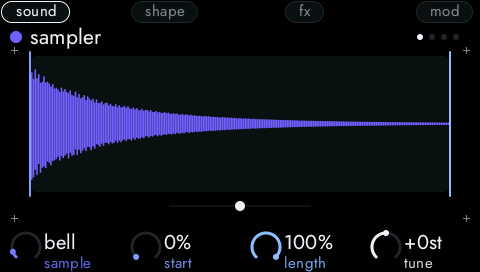
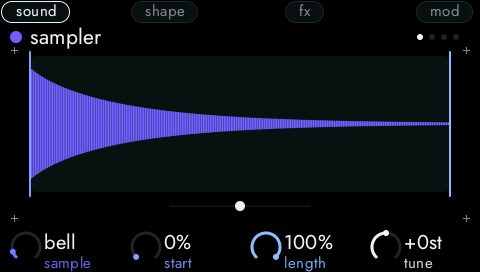
The sampler's sounds play the note they are given: made on a C (the bell tuned to play chords, the voice's vibrato steady), the granular follows; house's cloud an octave down; the twin too

diff --git a/twin/op8-twin.html b/twin/op8-twin.html
@@ -746,15 +746,16 @@ let sampleBank = null;
 function makeBank() {
   const SR = 48000, TAU = Math.PI * 2, mk = (sec, f) => { const n = Math.floor(sec * SR), a = new Float32Array(n); for (let i = 0; i < n; i++) a[i] = f(i, i / SR, n); return a; };
   let seed = 0x12345678; const rnd = () => { seed ^= seed << 13; seed ^= seed >>> 17; seed ^= seed << 5; return (seed >>> 0) / 4294967295 * 2 - 1; };
-  const pluck = (() => { const P = Math.floor(SR / 220), line = Float32Array.from({ length: P }, rnd); return mk(1.4, i => { const j = i % P, o = line[j]; line[j] = (line[j] + line[(j + 1) % P]) * 0.499; return o; }); })();
-  const bell = mk(2, (i, t) => [[1, 1, 1.6], [2.76, .6, 1.1], [5.4, .4, .7], [8.93, .25, .45], [11.34, .15, .3]].reduce((a, [r, g, d]) => a + Math.sin(TAU * 392 * r * t) * g * Math.exp(-t / d * 3), 0));
-  const pad = mk(2.4, (i, t, n) => { const env = Math.min(1, t / .6) * Math.min(1, (n - i) / SR / .8); return [-.07, 0, .06, .13].reduce((a, d) => { const f = 196 * (1 + d * .1), ph = (f * t) % 1; return a + (2 * ph - 1) * .5 + Math.sin(TAU * f * 2 * t) * .3; }, 0) * env; });
-  const st = [[0, 0], [0, 0], [0, 0]]; const voice = mk(1.2, (i, t, n) => { const vib = 1 + .012 * Math.sin(TAU * 5 * t), pulse = (130 * vib * t) % 1 < .05 ? 1 : 0; let out = 0;
+  const C4 = 261.62557; // the pitched sounds are on a C (sampler.rs): a note plays that note
+  const pluck = (() => { const P = Math.round(SR / C4), line = Float32Array.from({ length: P }, rnd); return mk(1.4, i => { const j = i % P, o = line[j]; line[j] = (line[j] + line[(j + 1) % P]) * 0.499; return o; }); })();
+  const bell = mk(2, (i, t) => [[1, 1, 1.6], [2, .5, 1], [3, .3, .6], [4, .2, .4], [6, .12, .25]].reduce((a, [r, g, d]) => a + Math.sin(TAU * 2 * C4 * r * t) * g * Math.exp(-t / d * 3), 0));
+  const pad = mk(2.4, (i, t, n) => { const env = Math.min(1, t / .6) * Math.min(1, (n - i) / SR / .8); return [-.07, 0, .06, .13].reduce((a, d) => { const f = C4 * (1 + d * .1), ph = (f * t) % 1; return a + (2 * ph - 1) * .5 + Math.sin(TAU * f * 2 * t) * .3; }, 0) * env; });
+  const st = [[0, 0], [0, 0], [0, 0]]; let vph = 0; const voice = mk(1.2, (i, t, n) => { const vib = 1 + .012 * Math.sin(TAU * 5 * t); vph = (vph + C4 / 2 * vib / SR) % 1; const pulse = vph < .05 ? 1 : 0; let out = 0;
     [[800, 1], [1150, .5], [2900, .25]].forEach(([f, g], k) => { const r = .985, y = pulse + 2 * r * Math.cos(TAU * f / SR) * st[k][0] - r * r * st[k][1]; st[k][1] = st[k][0]; st[k][0] = y; out += y * g * .05; });
     return out * Math.min(1, t / .08) * Math.min(1, (n - i) / SR / .3); });
   let ph = 0; const thump = mk(.7, (i, t) => { ph = (ph + (42 + 110 * Math.exp(-t * 22)) / SR) % 1; return Math.sin(TAU * ph) * Math.exp(-t * 5) + rnd() * .3 * Math.exp(-t * 90); });
   let lp = 0; const sweep = mk(1.6, (i, t, n) => { const u = i / n; lp += (rnd() - lp) * (.02 + .9 * u * u); return lp * (.1 + .9 * u) * Math.min(1, (n - i) / 400); });
-  const glass = mk(1.3, (i, t) => Math.sin(TAU * 660 * t + Math.sin(TAU * 1320 * t) * 2.2 * Math.exp(-t * 3)) * Math.exp(-t * 2.2));
+  const glass = mk(1.3, (i, t) => Math.sin(TAU * 2 * C4 * t + Math.sin(TAU * 4 * C4 * t) * 2.2 * Math.exp(-t * 3)) * Math.exp(-t * 2.2));
   const glitch = mk(.6, (i, t) => { const hit = Math.floor(t / .15), loc = t - hit * .15; return (rnd() * .6 + ((loc * (900 + hit * 400)) % 1 < .5 ? .5 : -.5)) * Math.exp(-loc * 45) * (1 - hit * .2); });
   return [pluck, bell, pad, voice, thump, sweep, glass, glitch].map(a => { const pk = a.reduce((m, x) => Math.max(m, Math.abs(x)), 0) || 1; return a.map(x => x * .9 / pk); });
 }
@@ -1695,7 +1696,7 @@ function factoryProject(i) {
 }
 // the standard tracks, in the order of PLUG-IN: A drums, B kick, C fm, D resonator, E sampler, F empty (the granular), G macro, H MIDI out
 // what house changes in its instruments after the preset (HOUSE_KNOBS and HOUSE_KIT in factory.rs): track -> [knob, value] (a level given here is not scaled)
-const HOUSE_KNOBS = { 3: [[7, 1.0]], 4: [[4, .25], [5, .6], [7, .18]], 5: [[4, .4], [7, .18]], 6: [[0, .4375], [2, .3], [7, .6]] };
+const HOUSE_KNOBS = { 3: [[7, 1.0]], 4: [[4, .25], [5, .6], [7, .14]], 5: [[2, .6], [4, .25], [7, .18]], 6: [[0, .4375], [2, .3], [7, .6]] };
 const HOUSE_KIT = { 1: [.5, .40, .45, .55, .60, .95, .5], 2: [.5, .12, .42, .5, .5, .42, .38], 3: [.5, .30, .42, .5, .5, .44, .62], 5: [.5, .38, .55, .5, .55, 1.0, .5], 6: [.5, .12, .45, .5, .5, .65, .45], 7: [.5, .80, .50, .5, .5, .35, .6] };
 function applyPiece(i) {
   const [names, gain] = PIECE_PRESETS[i];
@@ -1925,7 +1926,7 @@ granular | freeze  | 0.219 0.40 0.70 0.05 0.50 0.85 0.60 0.70
 granular | shimmer | 0.406 0.10 0.45 0.80 0.75 0.80 1.00 0.65
 granular | glitch  | 0.469 0.00 0.10 0.30 0.50 0.15 0.40 0.80
 granular | rumble  | 0.281 0.10 0.60 0.25 0.25 0.70 0.30 0.75
-granular | bells   | 0.094 0.15 0.35 0.65 0.60 0.55 0.80 0.70
+granular | bells   | 0.094 0.15 0.35 0.65 0.50 0.55 0.80 0.70
 granular | swarm   | 0.344 0.45 0.30 0.85 0.50 0.60 0.50 0.70
 `;
 const PRESET_NAMES = { kick: "KickSyn", fm: "FmBass", resonator: "resonator", drums: "drums", sampler: "sampler", granular: "granular", macro: "macro" };

diff --git a/crates/op8-cartridges/src/sampler.rs b/crates/op8-cartridges/src/sampler.rs
@@ -179,13 +179,16 @@ impl Noise {
     }
 }
 
+/// The pitched sounds of the bank are made on a C, so that a note plays that note (the sampler plays a sound as it is on note 60).
+const C4: f32 = 261.625_57;
+
 fn secs(s: f32) -> usize {
     (s * SAMPLE_RATE) as usize
 }
 
-/// A plucked string: a burst of noise round a short delay line (Karplus–Strong), about A3.
+/// A plucked string: a burst of noise round a short delay line (Karplus–Strong), on C4.
 fn make_pluck() -> Vec<f32> {
-    let period = (SAMPLE_RATE / 220.0) as usize;
+    let period = (SAMPLE_RATE / C4).round() as usize;
     let mut line: Vec<f32> = {
         let mut n = Noise(0x1234_5678);
         (0..period).map(|_| n.next()).collect()
@@ -200,18 +203,19 @@ fn make_pluck() -> Vec<f32> {
     out
 }
 
-/// A struck bell: inharmonic partials, the high ones dying first.
+/// A struck bell on C5, tuned to play chords: its partials are the octave, the twelfth, two octaves and the fifth above them, the high
+/// ones dying first (a bar's own partials, 2.76 and 5.4 times the first, fall between the notes and clash in a chord).
 fn make_bell() -> Vec<f32> {
-    let partials = [(1.0, 1.0, 1.6), (2.76, 0.6, 1.1), (5.4, 0.4, 0.7), (8.93, 0.25, 0.45), (11.34, 0.15, 0.3)];
+    let partials = [(1.0, 1.0, 1.6), (2.0, 0.5, 1.0), (3.0, 0.3, 0.6), (4.0, 0.2, 0.4), (6.0, 0.12, 0.25)];
     (0..secs(2.0))
         .map(|i| {
             let t = i as f32 / SAMPLE_RATE;
-            partials.iter().map(|&(r, a, d)| (TAU * 392.0 * r * t).sin() * a * (-t / d * 3.0).exp()).sum()
+            partials.iter().map(|&(r, a, d)| (TAU * 2.0 * C4 * r * t).sin() * a * (-t / d * 3.0).exp()).sum()
         })
         .collect()
 }
 
-/// A slow pad: a few detuned waves that swell and fade.
+/// A slow pad on C4: a few detuned waves that swell and fade.
 fn make_pad() -> Vec<f32> {
     let n = secs(2.4);
     (0..n)
@@ -219,7 +223,7 @@ fn make_pad() -> Vec<f32> {
             let t = i as f32 / SAMPLE_RATE;
             let env = (t / 0.6).min(1.0) * ((n - i) as f32 / SAMPLE_RATE / 0.8).min(1.0);
             let w: f32 = [-0.07f32, 0.0, 0.06, 0.13].iter().map(|d| {
-                let f = 196.0 * (1.0 + d * 0.01 * 10.0);
+                let f = C4 * (1.0 + d * 0.01 * 10.0);
                 let p = (f * t).fract();
                 (2.0 * p - 1.0) * 0.5 + (TAU * f * 2.0 * t).sin() * 0.3
             }).sum();
@@ -228,16 +232,20 @@ fn make_pad() -> Vec<f32> {
         .collect()
 }
 
-/// A sung "ah": a pulse train through three resonances (the formants of that vowel).
+/// A sung "ah" on C3: a pulse train through three resonances (the formants of that vowel).
 fn make_voice() -> Vec<f32> {
     let n = secs(1.2);
     let formants = [(800.0f32, 1.0f32), (1150.0, 0.5), (2900.0, 0.25)];
     let mut state = [[0.0f32; 2]; 3];
+    let mut phase = 0.0f32;
     (0..n)
         .map(|i| {
             let t = i as f32 / SAMPLE_RATE;
+            // a vibrato of 1.2 % five times a second: the phase moves at the pitch of the moment (a vibrato written as `f * vib * t`
+            // would swing wider and wider as the note goes on)
             let vib = 1.0 + 0.012 * (TAU * 5.0 * t).sin();
-            let pulse = if (130.0 * vib * t).fract() < 0.05 { 1.0 } else { 0.0 };
+            phase = (phase + C4 / 2.0 * vib / SAMPLE_RATE).fract();
+            let pulse = if phase < 0.05 { 1.0 } else { 0.0 };
             let mut out = 0.0;
             for (k, &(f, g)) in formants.iter().enumerate() {
                 let (r, w) = (0.985f32, TAU * f / SAMPLE_RATE);
@@ -281,13 +289,13 @@ fn make_sweep() -> Vec<f32> {
         .collect()
 }
 
-/// A glassy tone: two sines that modulate each other, dying out.
+/// A glassy tone on C5: two sines that modulate each other, dying out.
 fn make_glass() -> Vec<f32> {
     (0..secs(1.3))
         .map(|i| {
             let t = i as f32 / SAMPLE_RATE;
-            let m = (TAU * 1320.0 * t).sin() * 2.2 * (-t * 3.0).exp();
-            ((TAU * 660.0 * t) + m).sin() * (-t * 2.2).exp()
+            let m = (TAU * 4.0 * C4 * t).sin() * 2.2 * (-t * 3.0).exp();
+            ((TAU * 2.0 * C4 * t) + m).sin() * (-t * 2.2).exp()
         })
         .collect()
 }
@@ -747,6 +755,26 @@ mod tests {
             }
         }
         assert_eq!(bank, factory_bank(), "made the same way every time");
+    }
+
+    // F-A31: the pitched sounds of the bank are made on a C, so that a note plays that note: their period (found by autocorrelation, a
+    // tenth of a second in) is a C within 25 cents, in whatever octave.
+    #[test]
+    fn the_pitched_sounds_are_on_c() {
+        let bank = factory_bank();
+        for name in ["pluck", "bell", "pad", "voice", "glass"] {
+            let s = bank.iter().find(|s| s.name == name).unwrap();
+            let x = &s.data[4800..4800 + 4096];
+            let corr = |lag: usize| x[..4096 - lag].iter().zip(&x[lag..]).map(|(a, b)| a * b).sum::<f32>();
+            let lag = (43..800).max_by(|&a, &b| corr(a).total_cmp(&corr(b))).unwrap();
+            // the peak sits between two samples: a parabola through its neighbours finds where
+            let (l, c, r) = (corr(lag - 1), corr(lag), corr(lag + 1));
+            let exact = lag as f32 + 0.5 * (l - r) / (l - 2.0 * c + r);
+            let hz = SAMPLE_RATE / exact;
+            let cents = (1200.0 * (hz / C4).log2()).rem_euclid(1200.0);
+            let off = cents.min(1200.0 - cents);
+            assert!(off < 25.0, "{name}: {hz:.1} Hz is {off:.0} cents from a C");
+        }
     }
 
     // F-A16

diff --git a/crates/op8/src/factory.rs b/crates/op8/src/factory.rs
@@ -521,8 +521,8 @@ pub fn blank() -> ProjectFile {
 /// the bell sound played slowly, the cloud is the bells, low and quiet, and the kit has the clap and the snare forward and the hats back (sound, tune, decay, tone, snap, body, level, pan).
 const HOUSE_KNOBS: [(usize, &[(usize, f32)]); 4] = [
     (3, &[(7, 1.0)]),
-    (4, &[(4, 0.25), (5, 0.60), (7, 0.18)]),
-    (5, &[(4, 0.40), (7, 0.18)]),
+    (4, &[(4, 0.25), (5, 0.60), (7, 0.14)]),
+    (5, &[(2, 0.60), (4, 0.25), (7, 0.18)]), // longer grains (a cleaner tone); TUNE an octave down (a fraction of one would leave the key)
     (6, &[(0, 0.4375), (2, 0.30), (7, 0.60)]), // the macro as its "fm" engine: an electric piano
 ];
 const HOUSE_KIT: [(usize, [f32; 7]); 6] = [

diff --git a/docs/instruments.md b/docs/instruments.md
@@ -50,7 +50,7 @@ In three stages, from the simplest to the most open:
 | **MidiOutBridge** | Sends the track out the MK3's DIN MIDI to an external synth | A DIN connector and notes leaving through the cable |
 | **resonator** | A string or a bank of bells that rings when a note strikes it; four voices (a fifth note takes the oldest). Sound: `type` (string, bells), `structure`, `bright`, `damping`. Shape: `decay`, `color`, `spread` (how far apart the four voices sit in the stereo field), `level`. Built on the string and modal engines of the Plaits code (MIT) | A string held at both ends that shivers with the sound (structure bows it, bright thickens it), or eight rings spaced as the modes of a bell are, fading outward with the damping |
 | **drums** | Eight percussion sounds on one track, chosen by the pitch of the note: C kick, C# snare, D closed hat, D# open hat, E tom, F clap, F# rim, G crash (the notes above G wrap round). The knobs edit the sound picked with the `sound` knob and each sound keeps its own values. Sound: `tune`, `decay`, `tone`, `snap`. Shape: `body`, `level`, `pan`, `sound`. Built on the percussion engines of the Plaits code (MIT) | The eight sounds as a 4 × 2 grid of keys, each with a small picture that flashes when it plays; the chosen one large, with the four colours of knobs 5–8 showing tune (height), decay (size), tone (rings) and snap (spikes) |
-| **sampler** | Plays recorded sounds with the keyboard and the steps. Sixteen places like everything else: eight sounds that come with it (pluck, bell, pad, voice, thump, sweep, glass, glitch, all made by the code, so nothing has to be installed) and eight for the player's own WAV files from `~/.config/op8/samples/` (`OP8_SAMPLES` overrides it), in the order of their names; any rate, 8–32 bit or float, mono or stereo, up to ten seconds. The folder is read when the instrument is made and again whenever SAMPLING or PLUG-IN is opened: files that are new or changed are put in the instruments that play (a place whose file is gone becomes empty). A note plays the sound at its own pitch for C4 and shifted by the interval for others; eight voices. Sound: `sample`, `start`, `length`, `tune` (± 24 semitones: it is also the root note, to play in tune a sound recorded on another note). Shape: `attack`, `release`, `loop` (`one shot`, `loop`, `slices 8`, `slices 16`, `hits`), `level`. One shot plays through and fades over the last `release`; loop repeats the window while the note is held and fades when it is let go; slices cut the window into equal parts and a note plays one (C3 is the first, the notes go round after the last) at its own pitch; `hits` cuts where the sound hits instead (found when the sound is loaded: a jump of 9 dB or more in loudness, 60 ms apart at least, up to sixteen; a slice runs from one hit to the next) | The wave of the chosen sound across the screen, the part that plays lit between two marks (`start`, `length`), a mark for the tune, a tick between the slices (or at each hit), a white line for every voice that is playing |
+| **sampler** | Plays recorded sounds with the keyboard and the steps. Sixteen places like everything else: eight sounds that come with it (pluck, bell, pad, voice, thump, sweep, glass, glitch, all made by the code, so nothing has to be installed; the five that have a pitch are made on a C, so that a note plays that note: pluck and pad on C4, bell and glass on C5, voice on C3, and the bell's partials are the octave, the twelfth, two octaves and the fifth above them, so that it plays chords) and eight for the player's own WAV files from `~/.config/op8/samples/` (`OP8_SAMPLES` overrides it), in the order of their names; any rate, 8–32 bit or float, mono or stereo, up to ten seconds. The folder is read when the instrument is made and again whenever SAMPLING or PLUG-IN is opened: files that are new or changed are put in the instruments that play (a place whose file is gone becomes empty). A note plays the sound at its own pitch for C4 and shifted by the interval for others; eight voices. Sound: `sample`, `start`, `length`, `tune` (± 24 semitones: it is also the root note, to play in tune a sound recorded on another note). Shape: `attack`, `release`, `loop` (`one shot`, `loop`, `slices 8`, `slices 16`, `hits`), `level`. One shot plays through and fades over the last `release`; loop repeats the window while the note is held and fades when it is let go; slices cut the window into equal parts and a note plays one (C3 is the first, the notes go round after the last) at its own pitch; `hits` cuts where the sound hits instead (found when the sound is loaded: a jump of 9 dB or more in loudness, 60 ms apart at least, up to sixteen; a slice runs from one hit to the next) | The wave of the chosen sound across the screen, the part that plays lit between two marks (`start`, `length`), a mark for the tune, a tick between the slices (or at each hit), a white line for every voice that is playing |
 | **granular** | Plays a sound as a cloud of grains (very short, overlapping pieces). The sound is one of the sampler's sixteen places (the eight that come with it and the player's own; what SAMPLING records goes in at once). Up to four held notes: each grain takes its pitch from them in turn (C4 is the sound's own). Sound: `sample`, `position` (where in the sound grains are cut), `size` (32 ms to 512 ms), `density` (regular below the middle, random above, a dead zone in the middle where only the grain a note starts is heard). Shape: `tune` (± 24 semitones), `texture` (the window of a grain: a trapezoid when low, a raised cosine when high), `spread` (between the speakers), `level`. Up to 32 grains at once; the quality of their interpolation falls as they get busy. Built on the granular player of Clouds (MIT) | The wave of the chosen sound, a band over the part where grains can start, a line where they are cut from (`position`) and one under it as long as a grain (`size`), and every grain that sounds as a bar where it reads, as tall as its window is open and higher or lower as it sits between the speakers (`spread`); the pitch as a mark on a short scale |
 | **macro** | 24 engines in one (virtual analogue, FM, wavetable, chords, voice, strings, percussion), from the Plaits code (MIT, `crates/op8-plaits`). Sound: `engine`, `harmonics`, `timbre`, `morph`. Shape: `decay`, `color`, `variant`, `level` | A ring of 24 engines, a polar waveform that beats with the level, and a timbre × morph field |
 

diff --git a/docs/features.md b/docs/features.md
@@ -224,6 +224,7 @@ The buttons and their implementation status are in [buttons.md](buttons.md). Thi
 | F-A28 | The EQ on the master: a low shelf at 100 Hz, a peak of 200 Hz to 5 kHz and a high shelf at 8 kHz, each of −15 to +15 dB (128 is none); flat, the sound passes untouched to the sample and no tail of the filters is left when it goes back to flat; each band changes its own part of the sound by what it says (measured on tones); the curve the screen draws is what the audio does, within 0.8 dB; the four settings are saved with the project (format version 5, and a version 4 file opens flat) | unit tests in `eq.rs` on tones and on the curve; `op8-seq` `io` round trip; the bench: the demo with the bass cut is quieter | ✓ |
 | F-A29 | The sends: with nothing sent the effects give back exact silence; the delay repeats in time with the tempo (an eighth is a quarter of a second at 120 bpm, twice that at 60, to a sample), each repeat quieter and alternating sides; the reverb rings, longer in a bigger room and brighter with a brighter tone, and stays stable on a loud sustained tone; a track sent to an effect is heard from it after the track has stopped, and with nothing sent there is silence; the settings mean what the screen says (six note values, feedback to 95 %); everything is saved with the project (format version 6, and a version 5 file opens sending nothing); each send can be taken before the level and the pan of the track instead (the taps, version 7, and a version 6 file opens with both after the fader) | unit tests in `sends.rs` on impulses and tones; `op8-seq` `io` round trip; the bench: a kick sent to each effect rings after it stops | ✓ |
 | F-A30 | A send taken before the fader is heard with the level of its track at nothing (taken after it, silence); a compressor that listens to a track that is silent leaves the mix alone where listening to the mix brings it down, and one that listens to a loud track brings a quiet mix down; with the side-chain on the mix and the taps after the fader the sound is as it was | the bench audio; a unit test in `comp.rs` on a loud side and a quiet block, and the other way round | ✓ |
+| F-A31 | sampler: the five sounds that come with it and have a pitch (pluck, bell, pad, voice, glass) are on a C, within 25 cents, so that a note plays that note (and the granular, which cuts its grains from them, too) | their period by autocorrelation (`sampler.rs`) | ✓ |
 | F-C10 | SETTINGS has four pages named by the buttons 1 to 4 over the left screen (`theme`, `audio`, `midi`, `light`; the open one lit, the buttons of the right screen dark); it opens on the theme, where the 4D turns the theme; on the other pages it moves the focus and leaves the theme alone, and audio and midi ask for the devices | `screen_buttons`, `ui().settings`, `requests`, pixel hashes | ✓ |
 | F-C11 | The audio page lists the outputs and inputs with `automatic` first, pushing one chooses it, asks for it (`Request::AudioOut`, `AudioIn`) and keeps it in the file; the audio block is chosen the same way (64, 128, 256); what the hardware answers is shown and a page with no devices still works | `settings`, `requests`, the file, `ui().settings` | ✓ |
 | F-C12 | The MIDI page lists the ports and chooses one (asked for and kept in the file); `play a note` and `silence all` ask for those and keep nothing | `requests`, the file | ✓ |

diff --git a/docs/roadmap.md b/docs/roadmap.md
@@ -161,6 +161,7 @@ Saved on 2026-11-16, after the batch of section 8, and kept current since. Devel
 23. Done (2026-11-17): house is a whole song of about two minutes (60 bars at 124): seven scenes (intro, groove, main, break, build, drop, outro) in a song that is followed from the start, five patterns for the drums and more for the others, other chords in the break and the build, and every instrument that sounds takes part (F-F08; the twin too). With it, MUTE works while a song plays: a track is silent if its own mute is on or its scene silences it. The other seven pieces are still one pattern each; they are next, one at a time, as Javi listens to house first.
 24. Done (2026-11-17): the song can be steered and read: a tap on a step while the song plays jumps there at the next bar (SHIFT + tap: at once), a step moves (hold a pad and tap another, or knob 4), and a step is drawn as two lines (`scene 2` / `4 bars`) with a bar that grows while it plays and `playing step N · bar X of Y` on the right screen (F-K27; the twin too). Not tried on the unit.
 25. Done (2026-11-17): house is composed again as a deep Chicago house (122 bpm, 67 bars) and balanced by measurement: each track was rendered alone and the first version was found shrill (the granular and the sampler were the loudest, in the highest octaves) with the chords buried (the quietest) and a kit that was all hats. Now the chords are an electric piano (macro `fm`) and a soft pad (sampler bell), the hook a plucked string, the cloud a low granular, and the harmony only minor sevenths (Am7, Dm7, Em7) because the instruments stack a minor seventh. A bass that never sits on a kick, accents and ghost notes, rhythms that change from bar to bar (Every), a two-part build, a bar of breath before the drop, fills, and a second drop; eleven scenes in twelve song steps (F-F08, F-F10; the twin too, without the locks). **Not yet heard by Javi**: only measured. The other seven pieces are still one pattern each.
+26. Done (2026-11-18): the sampler's sounds play the note they are given (F-A31). They were made on whatever pitch each had (the bell on G4, the glass on E5, the pluck on A3, the pad on G3) and played as if they were on C, so every piece that used them was out of the key; the bell's partials (2.76 and 5.4 times the first) clashed in a chord, and the voice's vibrato grew wider as the note went on. Now the five with a pitch are made on a C, the bell is tuned to play chords, the voice's vibrato is steady, the granular follows (its grains are cut from them), the `bells` preset of the granular no longer tunes up by 4.8 semitones, and house's cloud is an octave down instead of a fraction of one (the twin too).
 
 **To try on the unit, all together**
 
